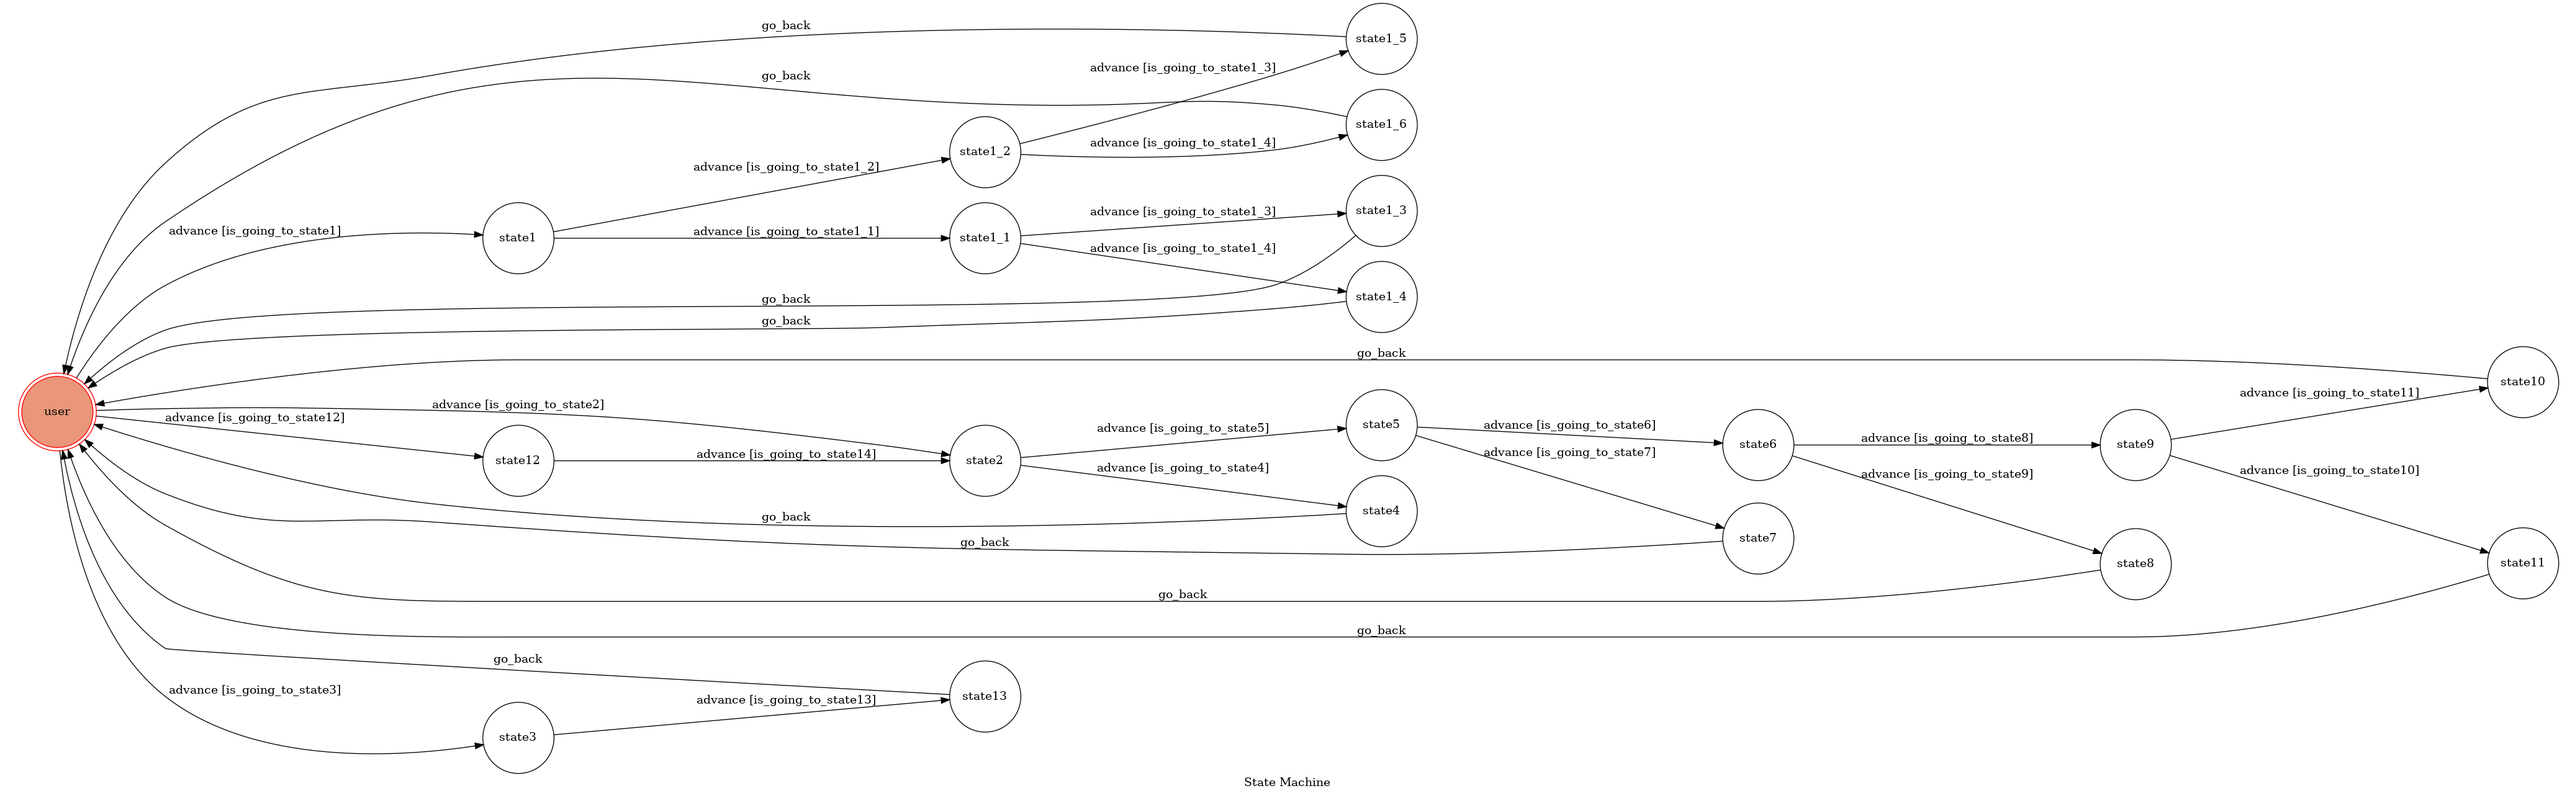
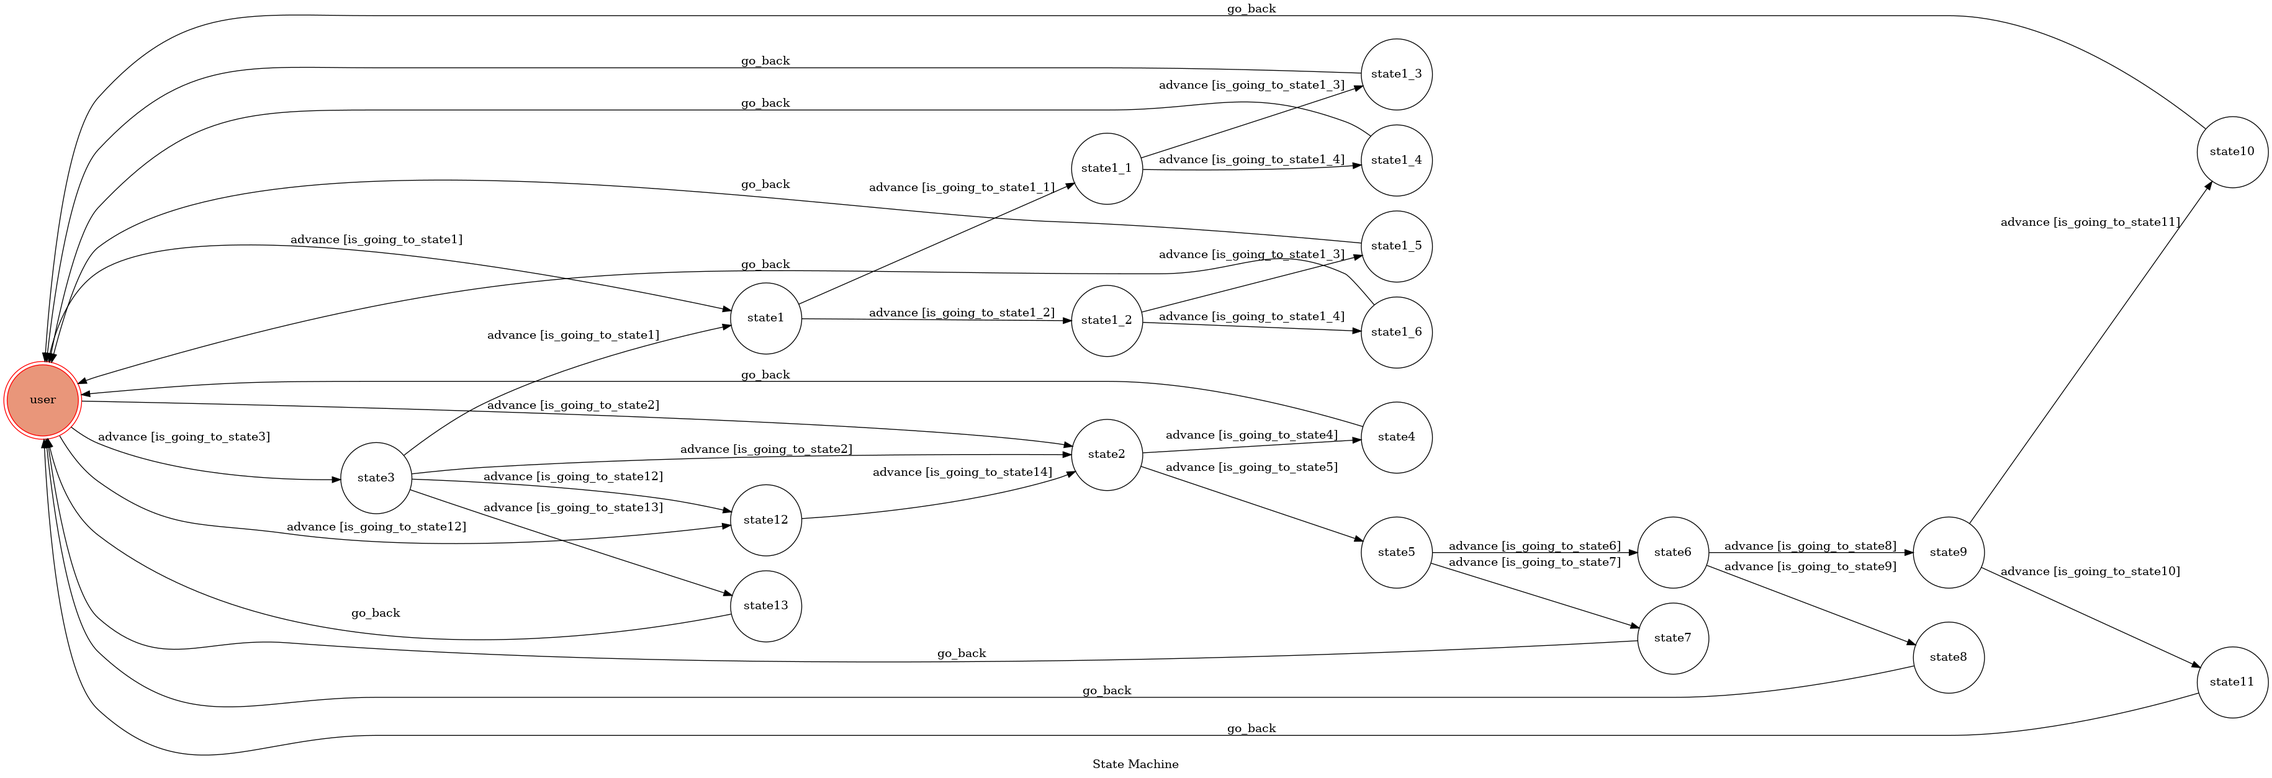
Revise program logic

diff --git a/Heroku_F04056154/app.py b/Heroku_F04056154/app.py
@@ -150,6 +150,24 @@ machine = TocMachine(
             'conditions': 'is_going_to_state13'
         },
         {
+            'trigger': 'advance',
+            'source': 'state3',
+            'dest': 'state2',
+            'conditions': 'is_going_to_state2'
+        },
+        {
+            'trigger': 'advance',
+            'source': 'state3',
+            'dest': 'state1',
+            'conditions': 'is_going_to_state1'
+        },
+        {
+            'trigger': 'advance',
+            'source': 'state3',
+            'dest': 'state12',
+            'conditions': 'is_going_to_state12'
+        },
+        {
             'trigger': 'go_back',
             'source': [
                 'state1_3',
@@ -206,5 +224,4 @@ def show_fsm():
 
 
 if __name__ == "__main__":
-    show_fsm()
     run(host="0.0.0.0", port=PORT, debug=True, reloader=True)

diff --git a/app.py b/app.py
@@ -149,6 +149,24 @@ machine = TocMachine(
             'conditions': 'is_going_to_state13'
         },
         {
+            'trigger': 'advance',
+            'source': 'state3',
+            'dest': 'state2',
+            'conditions': 'is_going_to_state2'
+        },
+        {
+            'trigger': 'advance',
+            'source': 'state3',
+            'dest': 'state1',
+            'conditions': 'is_going_to_state1'
+        },
+        {
+            'trigger': 'advance',
+            'source': 'state3',
+            'dest': 'state12',
+            'conditions': 'is_going_to_state12'
+        },
+        {
             'trigger': 'go_back',
             'source': [
                 'state1_3',

diff --git a/Heroku_F04056154/README.md b/Heroku_F04056154/README.md
@@ -1,4 +1,4 @@
-# 2018 計算理論期末專題 Theory of Computation Final Project 
+# 2018 計算理論期末專題 TOC Final Project in HEROKU
 
 ### Topic:[超展開奇片式自助餐有限狀態機](https://www.facebook.com/Yans-TOC-robot-571247746672227/)
 
@@ -29,7 +29,7 @@ Every time `user` state is triggered to `advance` to another state, it will `go_
 	* Input: "使用說明"
 		* Reply: "遊戲的一開始，請您輸入想吃的自助餐，[吃大八]？[吃海港]？[吃香格里拉]？或是輸入[故事情節]了解故事走向。"
 		* Reply: ![為甚麼你不問神奇海螺呢](https://img.moegirl.org/common/thumb/7/7b/SpongeBob_SquarePants.jpg/250px-SpongeBob_SquarePants.jpg)
-		* Next State: state3
+		* Next State: state1/state2/state12/state3
 
 	* Input: "吃大八"
 		* Reply: "你走進去了大八，詢問：「請問[自助餐]/[牛排館]有開嗎？」"

diff --git a/README.md b/README.md
@@ -29,7 +29,7 @@ Every time `user` state is triggered to `advance` to another state, it will `go_
 	* Input: "使用說明"
 		* Reply: "遊戲的一開始，請您輸入想吃的自助餐，[吃大八]？[吃海港]？[吃香格里拉]？或是輸入[故事情節]了解故事走向。"
 		* Reply: ![為甚麼你不問神奇海螺呢](https://img.moegirl.org/common/thumb/7/7b/SpongeBob_SquarePants.jpg/250px-SpongeBob_SquarePants.jpg)
-		* Next State: state3
+		* Next State: state1/state2/state12/state3
 
 	* Input: "吃大八"
 		* Reply: "你走進去了大八，詢問：「請問[自助餐]/[牛排館]有開嗎？」"
